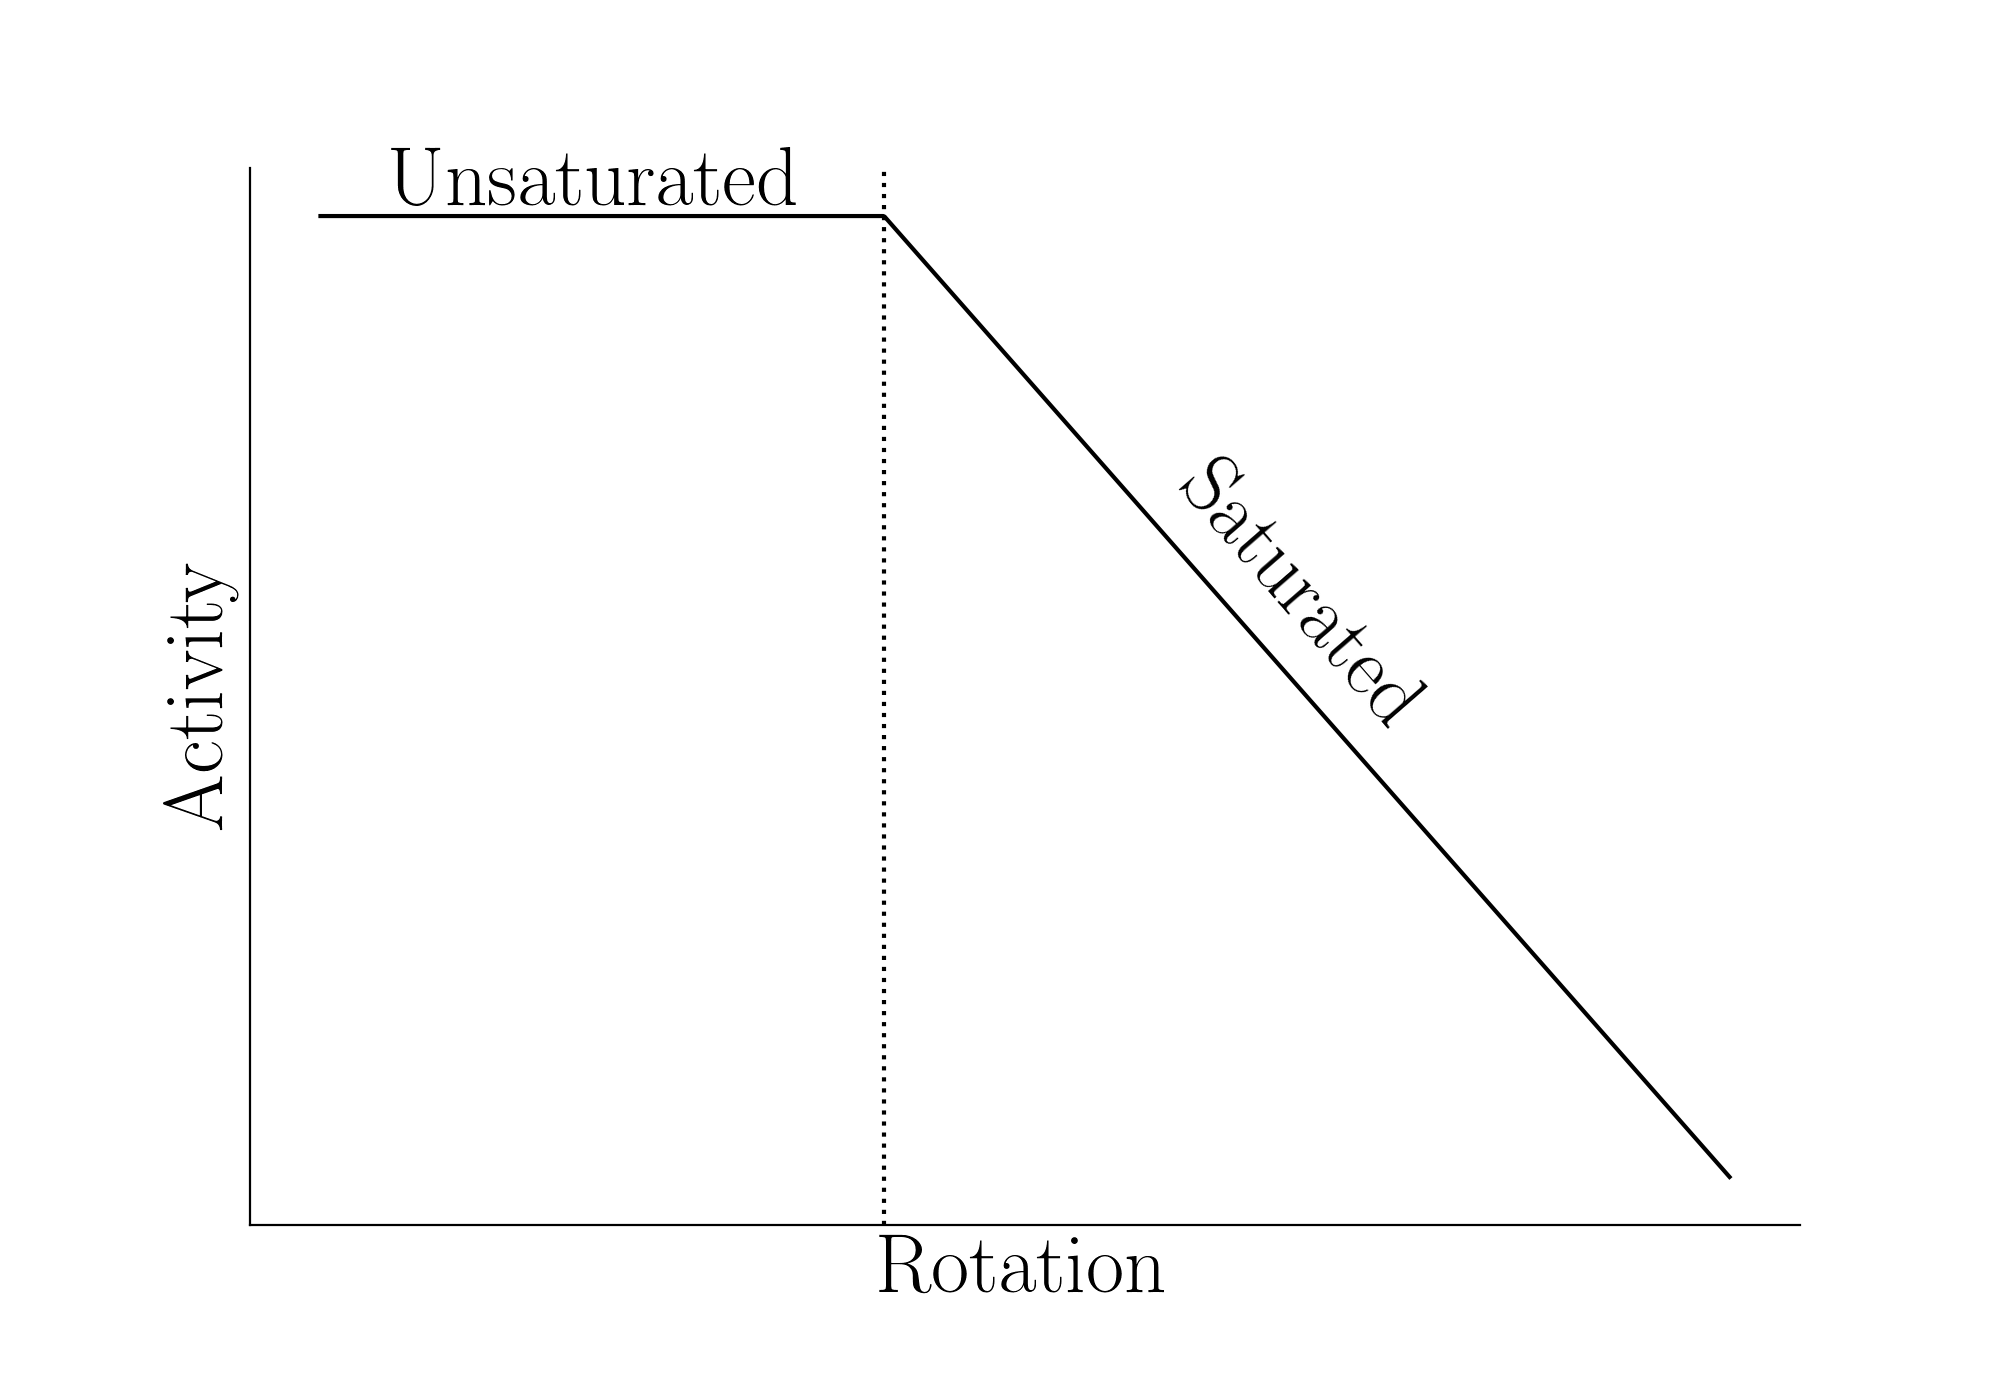
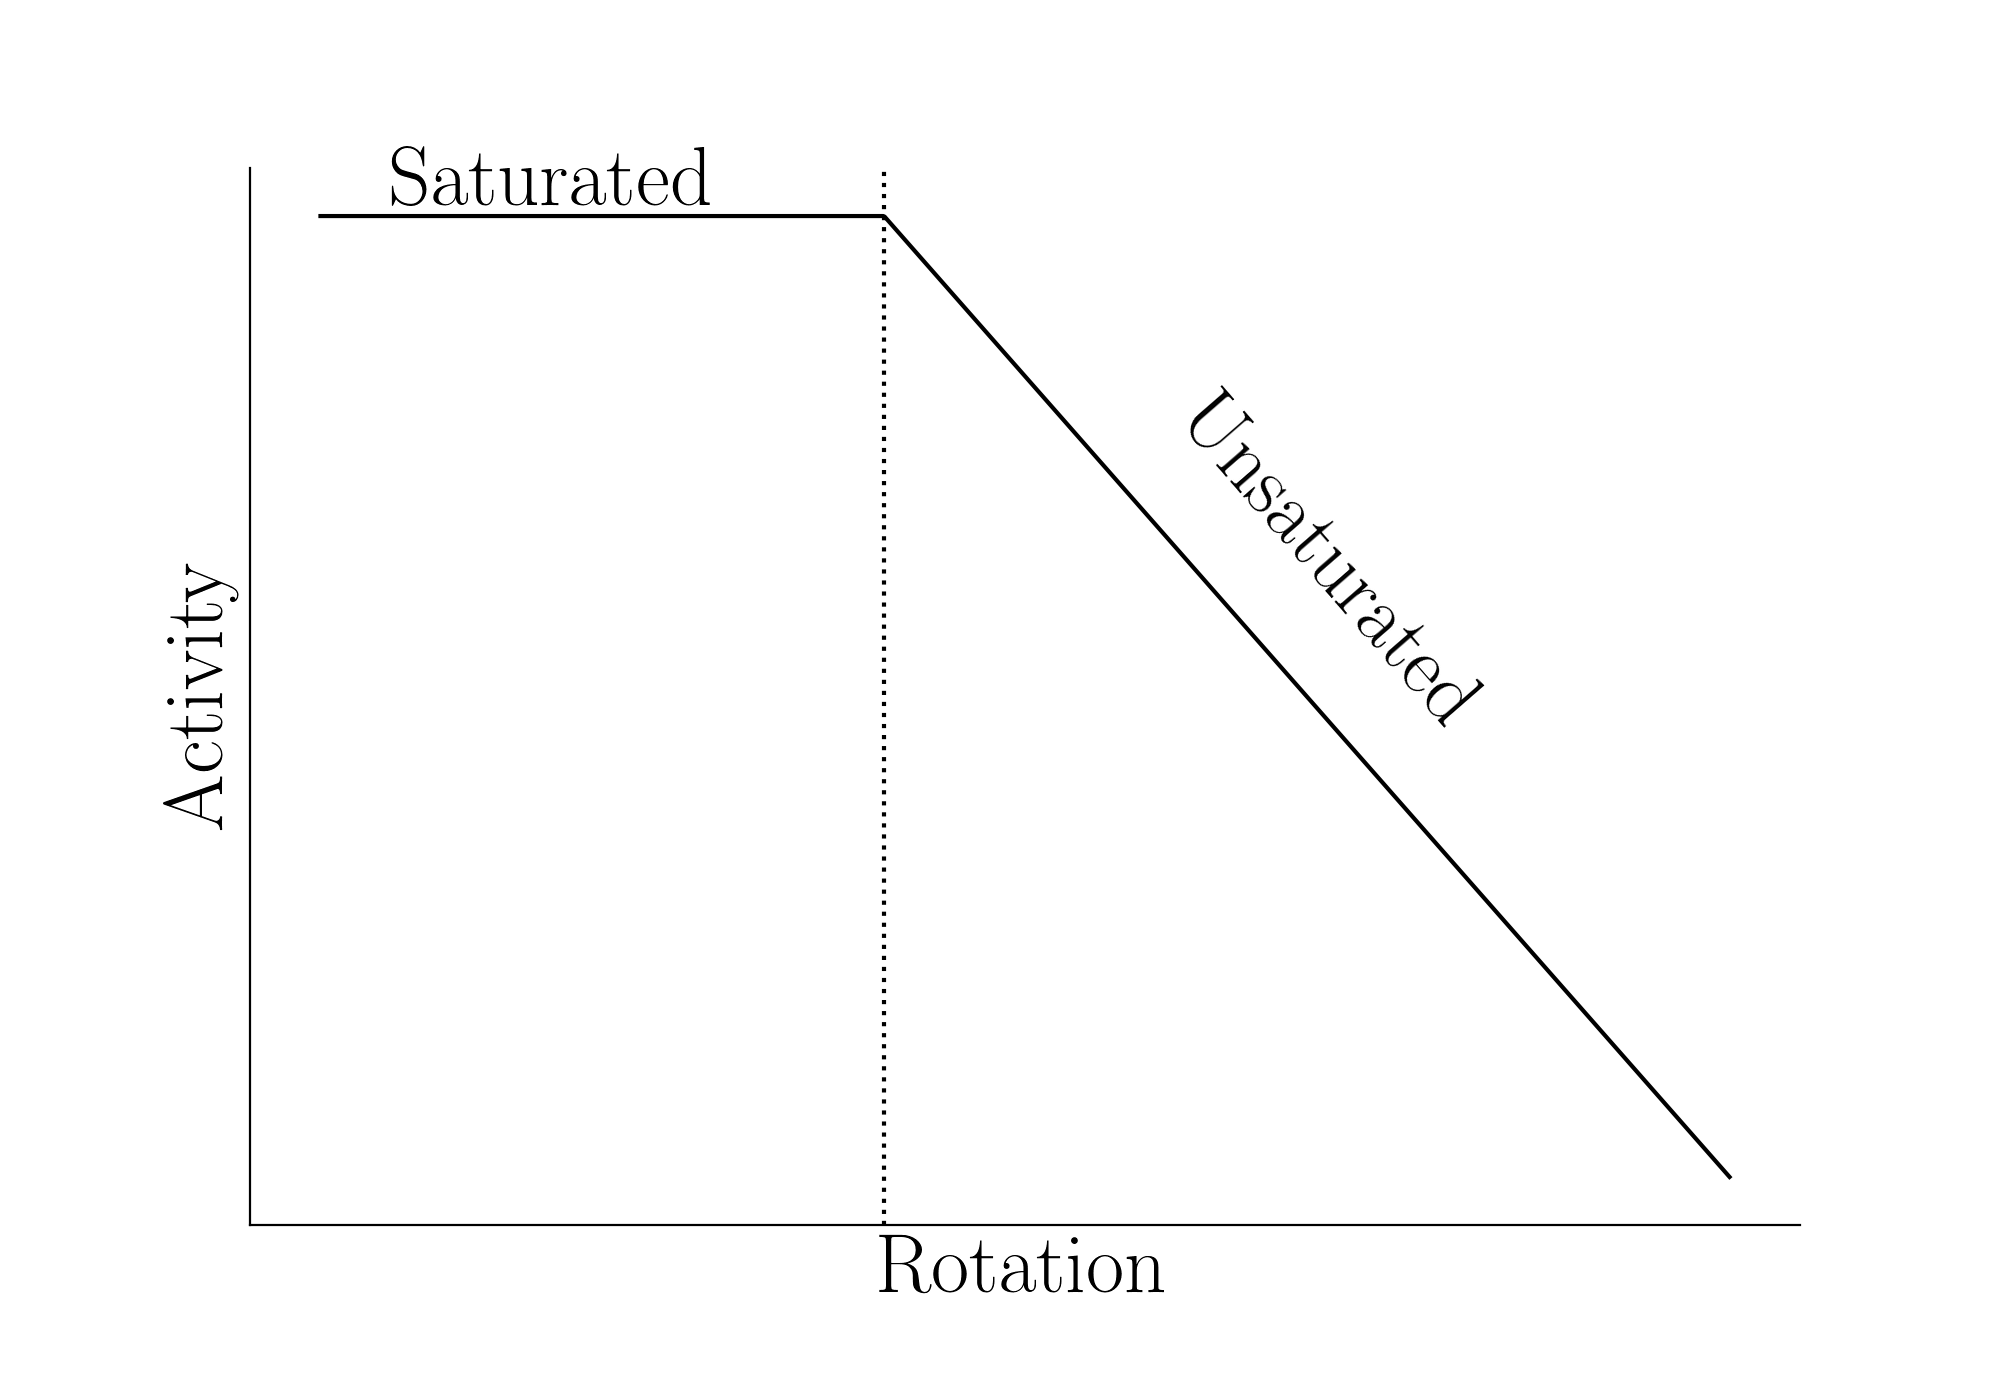
Updated some figures

Changed region(s): [[0.589, 0.2764, 0.744, 0.5221], [0.186, 0.0921, 0.403, 0.1536]]

diff --git a/static/html/slides.html b/static/html/slides.html
@@ -206,7 +206,7 @@
 		<img data-id="rotfigure" src="static/imgs/SeperateRotAct.png" alt="Simple Rotation Activity Relation" width=857 height=600>	
 	</section>
 	<section data-auto-animate>
-		<img data-id="rotfigure" src="static/imgs/SeperateRotAct_SaturatedLabeled.png" alt="Simple Rotation Activity Relation" width=857 height=600>	
+		<img data-id="rotfigure" src="static/imgs/SeperateRotAct_UnsaturatedLabeled.png" alt="Simple Rotation Activity Relation" width=857 height=600>	
 	</section>
 	<section data-auto-animate>
 		<img data-id="rotfigure" src="static/imgs/SeperateRotAct_SaturatedLabeled_UnsaturatedLabeled.png" alt="Simple Rotation Activity Relation" width=857 height=600>	
